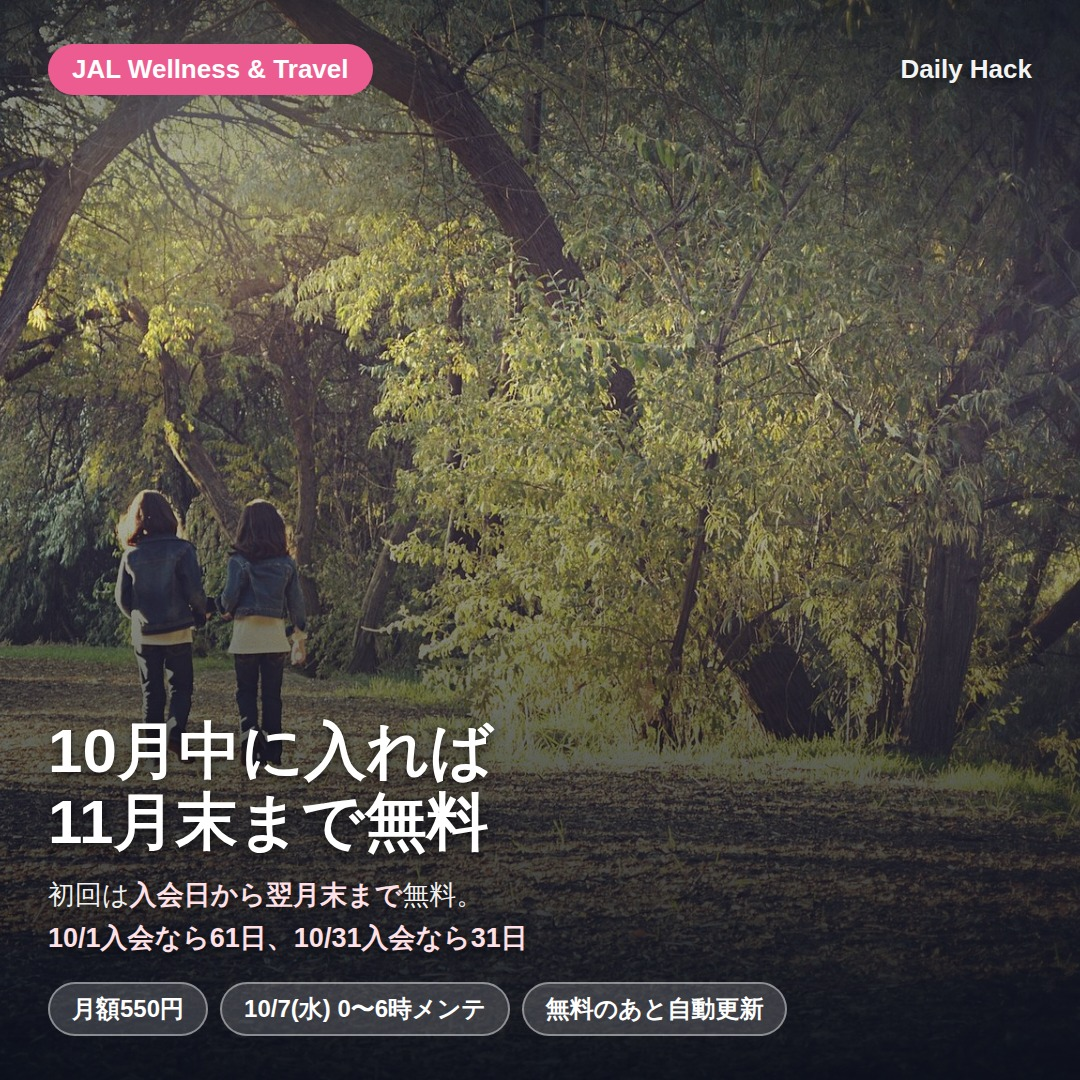
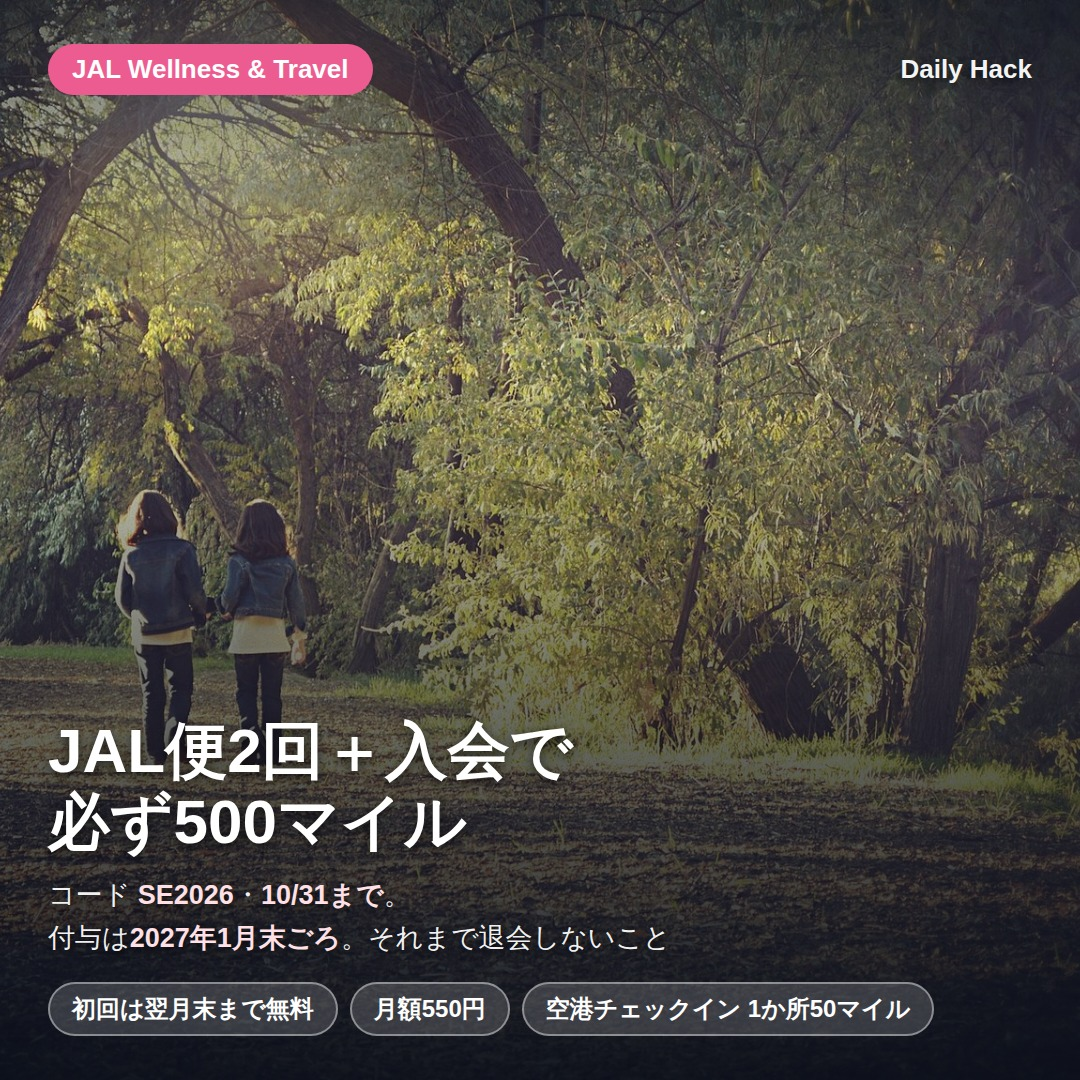
x: JAL の投稿を、公式で確認できた搭乗キャンペーン（必ず500マイル・〜10/31）に差し替える
利用者に「今やってる最新のキャンペーンはお前が調べろ」と言われ、x200 で
公式の未読ページ 4 本 と X 上の「2倍」の話を読んだ。

公式（jal.co.jp・2026-10-01 23:39 取得）で確認できた、いま マイルがもらえるもの:
  搭乗キャンペーン  入会・搭乗とも 2026/9/1〜10/31
                    JAL便2回＋コード SE2026 で入会 → 必ず500マイル
                    **付与は2027年1月末ごろ。それまでに退会すると対象外**
  空港チェックイン第3弾  2026/10/1〜12/31・1空港50マイル

参考投稿の「マイル2倍」は公式サイトに無い。X ではアプリ内告知で 9/30〜10/1 に
行われた様子なので、数字は使っていない。検索で「2倍のページ」と出た
campaign/miles/ は 2022〜2024 年に終わった Miles コラボで、要約が誤りだった。

文面 [1/2] 272 / [2/2] 233（build.mjs の計測）。「無料期間で解約したら 0 マイル」は
公式の「特典付与時点で退会していると対象外」から引いた。
画像は同じファイル名で作り直した（レビューページのコメント位置を保つため）。
posts.lock.json には足していない（未承認）。レビューページ v30 として公開。

$0／回・$0／日・$0／月（LLM 不使用）。

Claude-Session: https://claude.ai/code/session_01H2JQqdMCeKNiMVUTrAyX2t

Changed region(s): [[0.0306, 0.6417, 0.6111, 0.9778], [0.4889, 0.8861, 0.8861, 0.9778]]

diff --git a/scripts/image-review/page.html b/scripts/image-review/page.html
@@ -227,10 +227,10 @@
       // **月初に入るほど長く無料**という段取りで見せる（x-post-copy スキル §3-E 段取り型）。
       // 数字は JAL 公式（x199 でブラウザ取得・2026-10-01 23:12）と記事だけ。
       // **歩いてポイ活の告知（2026-09-20 投稿済み）とは別物。** 画像も使い回していない
-      key: "jal-oct", title: "JAL Wellness & Travel｜入るなら月初（2026年10月）", slug: "walk-poikatsu-2026-jal",
+      key: "jal-oct", title: "JAL Wellness & Travel｜搭乗2回＋入会で必ず500マイル（〜10/31）", slug: "walk-poikatsu-2026-jal",
       attach: "[1/2]（1枚）",
       images: [
-        { file: "1-jal-oct.jpg", name: "画像（1枚）", cap: "10月中に入れば11月末まで無料" }
+        { file: "1-jal-oct.jpg", name: "画像（1枚）", cap: "JAL便2回＋入会で必ず500マイル" }
       ]
     },
     {

diff --git a/docs/session-handoff.md b/docs/session-handoff.md
@@ -68,6 +68,12 @@
 
 <!-- 新しい記録がこの下に追加される（新しいものが上） -->
 
+### 2026-10-01 — JAL の投稿を、公式で確認できた『いま やっているキャンペーン』に差し替えた（未投稿・レビューページ v30 の jal-oct）。利用者に『今やってる最新のキャンペーンはお前が調べろ』と言われ、x200 で公式の未読ページ 4 本 と X 上の 2倍 の話を読んだ。公式で確認: 搭乗キャンペーン（入会・搭乗とも 2026/9/1〜10/31・JAL便2回＋コード SE2026 で入会→必ず500マイル・付与は2027年1月末ごろ・それまでに退会すると対象外）／空港チェックイン第3弾（2026/10/1〜12/31・1空港50マイル）／月20万歩で500名に500マイル抽選。参考投稿の『マイル2倍』は公式に無く、X ではアプリ内告知で 9/30〜10/1 に行われた様子なので数字は使っていない。検索で『2倍のページ』と出た campaign/miles/ は 2022〜2024 年に終わった Miles コラボで、要約が誤りだった。文面 272 / 233、画像は同じファイル名で作り直し。$0。
+
+次のアクション:
+
+- [ ] jal-oct の文面 2 本 と画像 1 枚 の承認待ち。搭乗キャンペーンは 10/31 締めなので、出すなら早いほど効く。
+
 ### 2026-10-01 — JAL の月初入会の X 投稿を作り直した（未投稿・レビューページ v29 の jal-oct）。最初は歩いてポイ活の告知を作ろうとしたが、2026-09-20 に投稿済み（tweet_id=2101694599215599678）で、利用者に『もう投稿したから今更上げる意味ない』と指摘された。根拠にした docs/cross-session-requests.md の『未対応』はメモであって一次情報ではなかった（ルール 11 違反）。レビューページの SETS の posted にも ID が在った。参考投稿 2 本 を x198 で実測し、x-post-copy スキルに §3-D 採点型 / §3-E 段取り型 を追加（PR #812）。JAL 公式は curl が 403 だったので x199 で Chrome から取得: 初回は入会日から翌月末まで無料（月初ほど長い）／月20万歩で毎月500名に500マイル抽選／対象便2回搭乗＋プロモコードで必ず500マイル／オーディオブックは 2026-10-15 23:59 で終了／10/7 0〜6時メンテで受け取れなかった分は補填なし。画像は投稿済みの 4 枚 を使い回さず、CC0 の park.jpg で 1 枚 新規作成（walk-poikatsu-2026-jal/x/1-jal-oct.jpg）。最初は jal-shot.jpg を全面に敷いたが 360×640 でぼやけたので差し替え。都心の格安スーパーも v2 で投稿済みだったので依頼表を閉じた。記事側のオーディオブック終了は blog3 宛ての依頼に書いた。$0。
 
 次のアクション:
